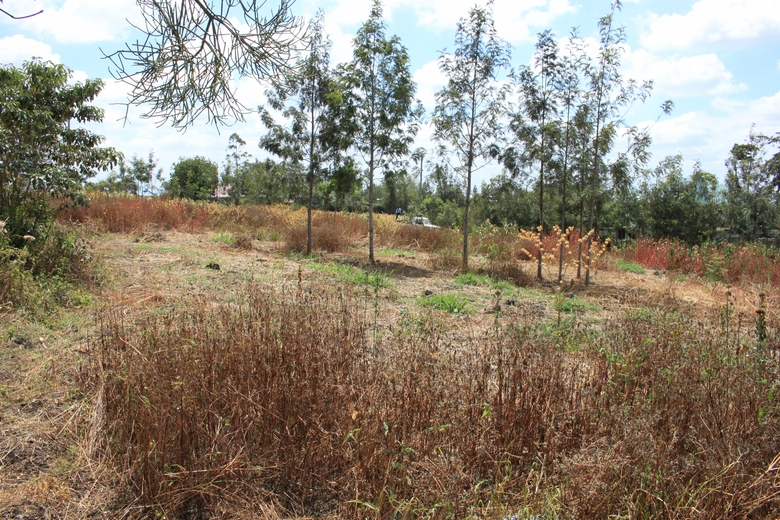
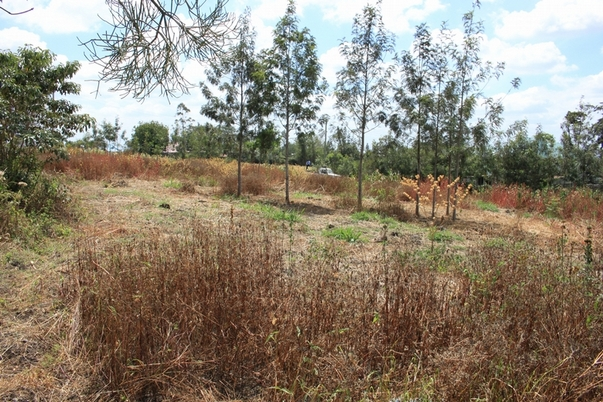
add drone imgs

diff --git a/index.html b/index.html
@@ -25,20 +25,19 @@
     <!-- Property Details -->
     <section class="content-wrapper">
         <div class="showcase">
-            <h1 class="sale-tag">4 Plots on Sale at Olkeri, Ngong.</h1>
-            <!-- <div class="slide-container"> -->
-            <div id="slider" class="cycle-slideshow"
-                data-cycle-pager-template="<a class='thumb'href='#'><img src='{{src}}'></a>">
+            <h1 class="sale-tag">4 Plots on Sale at Olkeri, Ngong-Karen.</h1>
+            
+            <div id="slider" class="cycle-slideshow"          data-cycle-pager-template="<a class='thumb'href='#'> <img src='{{src}}' > </a>">
                 <span class="cycle-pager"></span>
                 <span class="cycle-prev">&#9001;</span>
                 <span class="cycle-next">&#9002;</span>
 
-                <img src="img/A toward BC  and D.JPG" alt="">
+                <img src="img/img_1404.jpg" alt="">
+                <img src="img/img_mutation.jpg" alt="">
+                <img src="img/img_1394.jpg" alt="">
+                <img src="img/img_1397.jpg" alt="">
                 <img src="img/A toward D.jpg" alt="">
                 <img src="img/E towards A.jpg" alt="">
-                <img src="img/E towards D.jpg" alt="">
-                <img src="img/from main road toward point A.jpg" alt="">
-                <img src="img/point E towards BC.jpg" alt="">
                 <img src="img/mutation.jpg" alt="Mutation">
                 <img src="img/map.jpg" alt="Map">
             </div>

diff --git a/main.js b/main.js
@@ -8,6 +8,7 @@ function switch_layout(layout) {
     }
 
 }
+
 function show_map(params) {
     // Create a new instance of the map class
     var my_map = L.map(
@@ -20,19 +21,23 @@ function show_map(params) {
         my_map.invalidateSize();
     }, 100);
 
-    var osm = L.tileLayer('https://{s}.tile.openstreetmap.org/{z}/{x}/{y}.png?', { attribution: '<a href="http://mutall.co.ke">Mutall</a>' }).addTo(my_map);
+    var osm = L.tileLayer('https://{s}.tile.openstreetmap.org/{z}/{x}/{y}.png?', {
+        attribution: '<a href="http://mutall.co.ke">Mutall</a>'
+    }).addTo(my_map);
 
-    var customIcon = L.icon({
+    var landIcon = L.icon({
         iconUrl: 'img/marker.png',
         iconSize: [20, 20],
         popupAncor: [-3, -76],
-
     });
 
     var land_marker = L.marker(
-        [-1.382003, 36.696138],
-        { icon: customIcon }).addTo(my_map);
-    land_marker.bindPopup('<strong>Land For Sale</strong><br/>3km From Main Road').openPopup();
+        [-1.382003, 36.696138], {
+            icon: landIcon
+        }).addTo(my_map);
+
+    land_marker.bindPopup('<b>Land For Sale</b><br/>3km From Main Road').openPopup();
+
 }
 show_map('map1');
 show_map('map2');

diff --git a/main.css b/main.css
@@ -47,8 +47,9 @@ body {
 img {
     display: block;
     width: 100%;
-    height: 100%;
-    object-fit: cover;
+    max-height: 100%;
+    object-fit: contain;
+    
 }
 
 /* Map Div */
@@ -60,6 +61,7 @@ img {
 .cycle-slideshow {
     display: block;
     position: relative;
+    height: 410px;
 }
 
 .cycle-prev,
@@ -109,7 +111,7 @@ img {
 }
 
 .cycle-pager .thumb {
-    width: 10%;
+    width: 8%;
 }
 
 .thumb {
